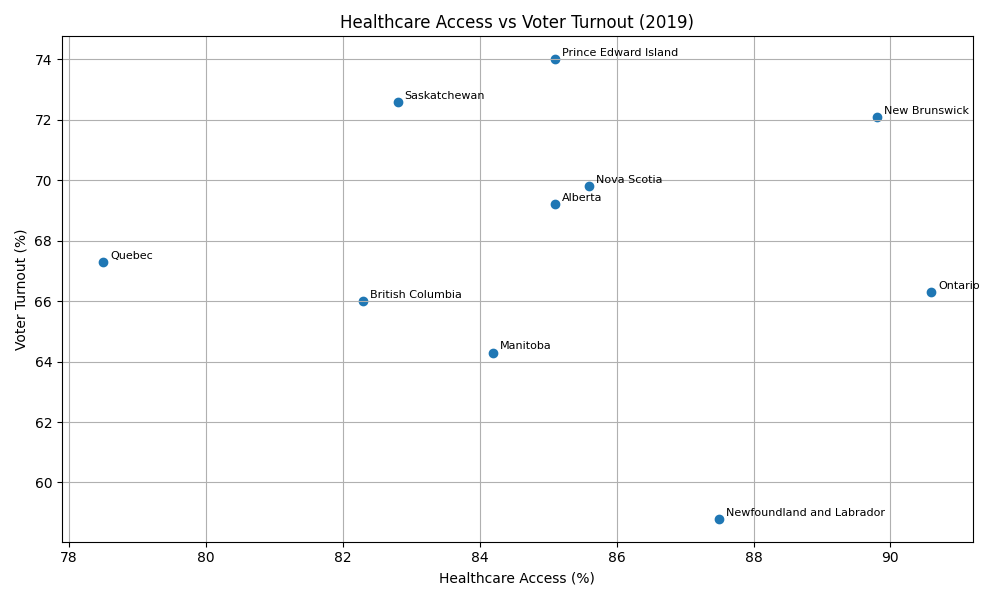
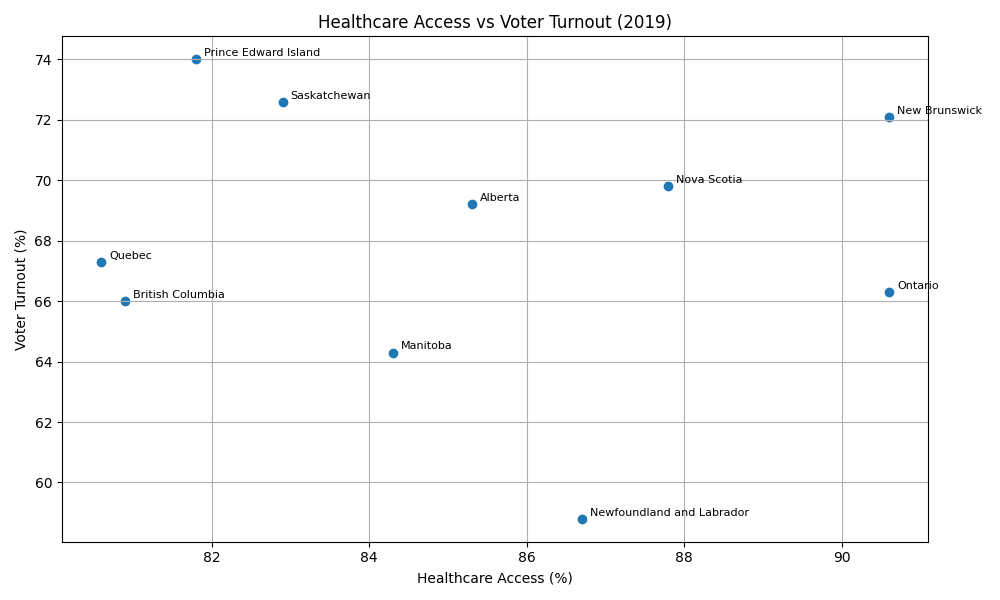
Changed the healthcare file for 2020

diff --git a/merge_healthcare_turnout.py b/merge_healthcare_turnout.py
@@ -89,7 +89,7 @@ def main(argv):
     # Province, Percentage of Voter Turnout 2019
     writer = csv.DictWriter(
         merged_out,
-        fieldnames=["GEO", "HC_ACCESS_2019", "VOTER_TURNOUT_2019"]
+        fieldnames=["GEO", "HC_ACCESS_2020", "VOTER_TURNOUT_2019"]
     )
     writer.writeheader()
 
@@ -108,7 +108,7 @@ def main(argv):
         if province in healthcare_data and turnout != "":
             writer.writerow({
                 "GEO": province,
-                "HC_ACCESS_2019": healthcare_data[province],
+                "HC_ACCESS_2020": healthcare_data[province],
                 "VOTER_TURNOUT_2019": turnout
             })
             count += 1

diff --git a/visualize_healthcare_turnout.py b/visualize_healthcare_turnout.py
@@ -30,7 +30,7 @@ def main(argv):
 
     for row in reader:
         regions.append(row["GEO"])
-        healthcare_access.append(float(row["HC_ACCESS_2019"]))
+        healthcare_access.append(float(row["HC_ACCESS_2020"]))
         voter_turnout.append(float(row["VOTER_TURNOUT_2019"]))
 
     infile.close()
